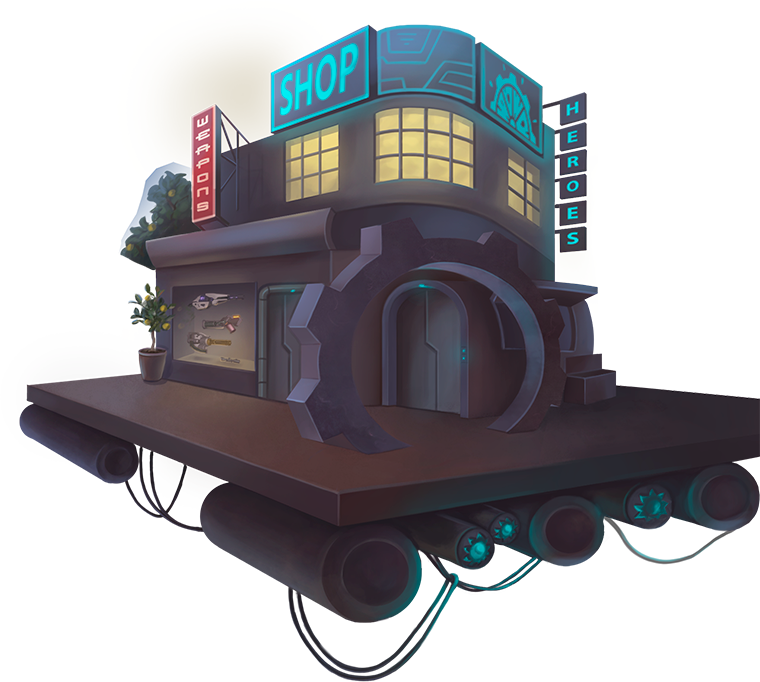
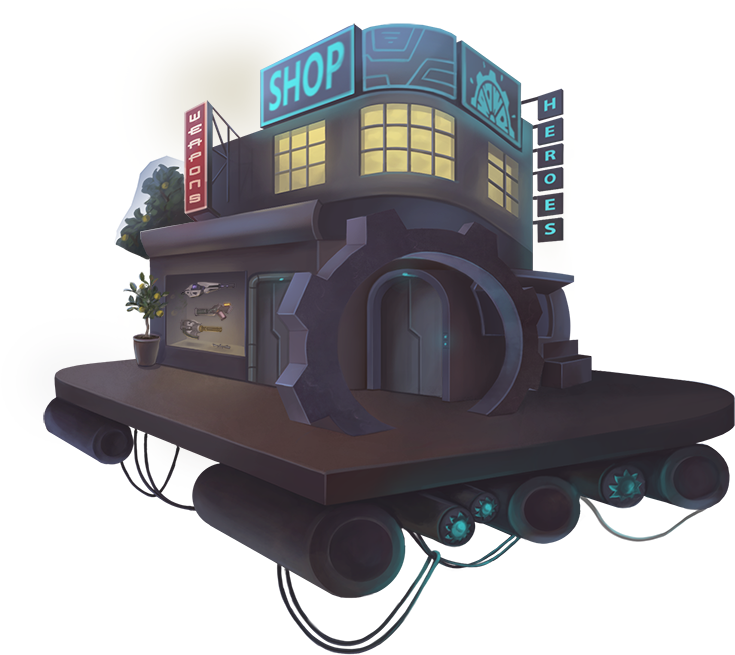
Experemental home page

diff --git a/src/routes/index.svelte b/src/routes/index.svelte
@@ -1,4 +1,5 @@
 <script type="ts">
+  import { goto } from '$app/navigation';
   import { onMount } from 'svelte'
   import Logo from '$src/components/layout/Logo.svelte'
   import Auth from '$src/components/layout/Auth.svelte'
@@ -26,128 +27,166 @@
   }
   .auth-home {
     position: absolute;
-    top: 5%;
-    right: 4%;
+    top: 3.8%;
+    right: 3%;
   }
   .home {
+    background: #626690;
+    background: linear-gradient(to bottom, #626690 0%,#626690 50%,#6a90b1 50%,#6a90b1 100%);
     overflow: hidden; 
     height: 100vh;
   }
   .home-inner {
     position: relative; 
-    height: 100vh;
-  }
-  .home-image {
-    position: relative; 
     left: 50%; 
     top: 50%; 
     transform: translate(-50%, -50%); 
-    width: 120vw;
-    height: 120vh;
-    object-fit: cover;
+  }
+  .home-image {
+    position: relative; 
+    width: 100%;
+  }
+  .home-secondary {
+    left: 0; 
+    bottom: 0;
+    position: absolute;
+    width: 100%;
   }
   .home-stake {
     transform: translate(-50%, -50%); 
-    left: 67%; 
-    top: 53%;
+    left: 66.25%; 
+    top: 52%;
     position: absolute;
-    width: 16%;
-    object-fit: contain;
+    width: 18.5%;
   }
   .home-shop {
     transform: translate(-50%, -50%); 
-    left: 85%; 
-    top: 58%;
+    left: 79.2%; 
+    top: 52.5%;
     position: absolute;
-    width: 45%;
-    object-fit: contain;
+    width: 38.8%;
   }
   .home-burn {
     transform: translate(-50%, -50%); 
-    left: 32%; 
-    top: 51%;
+    left: 28.3%; 
+    top: 51.75%;
     position: absolute;
-    width: 18%;
-    object-fit: contain;
+    width: 25.6%;
   }
   .home-factory {
-    left: -6%; 
-    top: 0;
+    transform: translate(-50%, -50%); 
+    top: 41.5%;
+    left: 17.6%; 
     position: absolute;
-    width: 55.8%;
-    height: 100%;
-    object-fit: contain;
+    width: 35.8%;
   }
+  .bottom-gradient {
+    background: linear-gradient(to bottom, rgba(152,154,160,0) 0%,rgba(106,144,177,1) 100%); 
+    position: absolute; 
+    bottom: -1px; 
+    width: 100%; 
+    left: 0; 
+    height: 50px;
+  }
+  
   .home-arena {
-    transform: translate(-50%, 0%); 
-    left: 50%; 
-    top: 0;
+    transform: translate(-50%, -50%); 
+    left: 52.3%; 
+    top: 33.8%;
     position: absolute;
-    width: 55%;
-    object-fit: contain;
+    width: 52.8%;
   }
   .home-bottom-clouds {
     right: 0; 
     bottom: 0;
     position: absolute;
-    width: 49.8%;
-    object-fit: contain;
+    width: 100%;
+    pointer-events: none;
   }
+
   .home-top-clouds {
-    transform: translate(-50%, 0%); 
-    right: 0; 
-    top: 0;
+    left: 59%; 
+    top: 30%;
     position: absolute;
-    width: 49.8%;
-    object-fit: contain;
+    width: 80%;
+    transform: translate(-50%, -50%);
+    pointer-events: none;
   }
-
-  .shop-lights {
-    transform: translate(-50%, -50%); 
-    left: 83%; 
-    top: 48.6%;
-    position: absolute;
-    width: 30%;
-    object-fit: contain;
-    opacity: 0;
-    transition: 0.2s;
-  }
-  .shop-lights-link {
-    position: absolute;
-    left: 71.4%; 
-    top: 20.8%; 
-    width: 28%; 
-    height: 45%;
-    z-index: 10;
-  }
-
-  .shop-lights-link:hover + .shop-lights {
-    opacity: 0.3;
+  @media screen and (max-width:768px) {
+    .auth-home {
+      top: 1%;
+    }
+    .home-secondary {
+      top: 52%;
+      left: 1%;
+      bottom: auto;
+    }
+    .home-burn {
+      left: 28%; 
+      top: 40%;
+      width: 50%;
+    }
+    .home-factory {
+      width: 80%;
+      top: 50%;
+      left: 10%; 
+    }
+    
+    .home-stake {
+      left: 72.25%; 
+      top: 43%;
+      width: 32.5%;
+    }
+    .home-shop {
+      left: 79.2%; 
+      top: 82.5%;
+      width: 67.8%;
+    }
+    .home-bottom-clouds {
+      bottom: -63%;
+      transform: scale(2.8, 2.3);
+      top: auto;
+      right: auto;
+      left: 7%;
+    }
+    .bottom-gradient {
+      bottom: -94.6%;
+      top: auto;
+    }
+    .home-arena {
+      left: 52.3%; 
+      top: -5.8%;
+      width: 69.8%;
+    }
+    .home-top-clouds {
+      top: -5.8%;
+    }
   }
 </style>
 
 
 <div class="home">
+
   <div class="home-inner">
     <img src="/img/home/main.jpg" class="home-image" alt="Home page">
+    <img src="/img/home/arena.png" class="home-arena" alt="Home arena">
+    <img src="/img/home/secondary.png" class="home-secondary" alt="Home secondary">
     <img src="/img/home/stake.png" class="home-stake" alt="Home stake">
-    <img src="/img/home/shop.png" class="home-shop" alt="Home shop">
+    <img src="/img/home/shop.png" class="home-shop cursor-pointer" alt="Home shop" on:click={() => goto('/shop')}>
     <img src="/img/home/burn.png" class="home-burn" alt="Home burn">
     <img src="/img/home/factory.png" class="home-factory" alt="Home factory">
-    <img src="/img/home/arena.png" class="home-arena" alt="Home arena">
     <img src="/img/home/bottom_clouds.png" class="home-bottom-clouds" alt="Home bottom clouds">
-    <img src="/img/home/top_clouds.png" class="home-top-clouds" alt="Home top clouds">
-
-    <a href="/" class="logo-home" style="color: #f0f0f0;">
-      <Logo height={50} />
-    </a>		
-
-    <div class="auth-home">
-      <Auth />
-    </div>
-
-    <a href="/shop" class="shop-lights-link">&nbsp;</a>
-    <img src="/img/home/shop_lights.png" class="shop-lights" alt="shop lights">
+    <img src="/img/home/top-clouds.png" class="home-top-clouds" alt="Home top clouds">
+    <div class="bottom-gradient"></div>
 
   </div>
+
+  <a href="/" class="logo-home" style="color: #f0f0f0;">
+    <Logo height={36} />
+  </a>		
+
+  <div class="auth-home">
+    <Auth />
+  </div>  
+
 </div>
